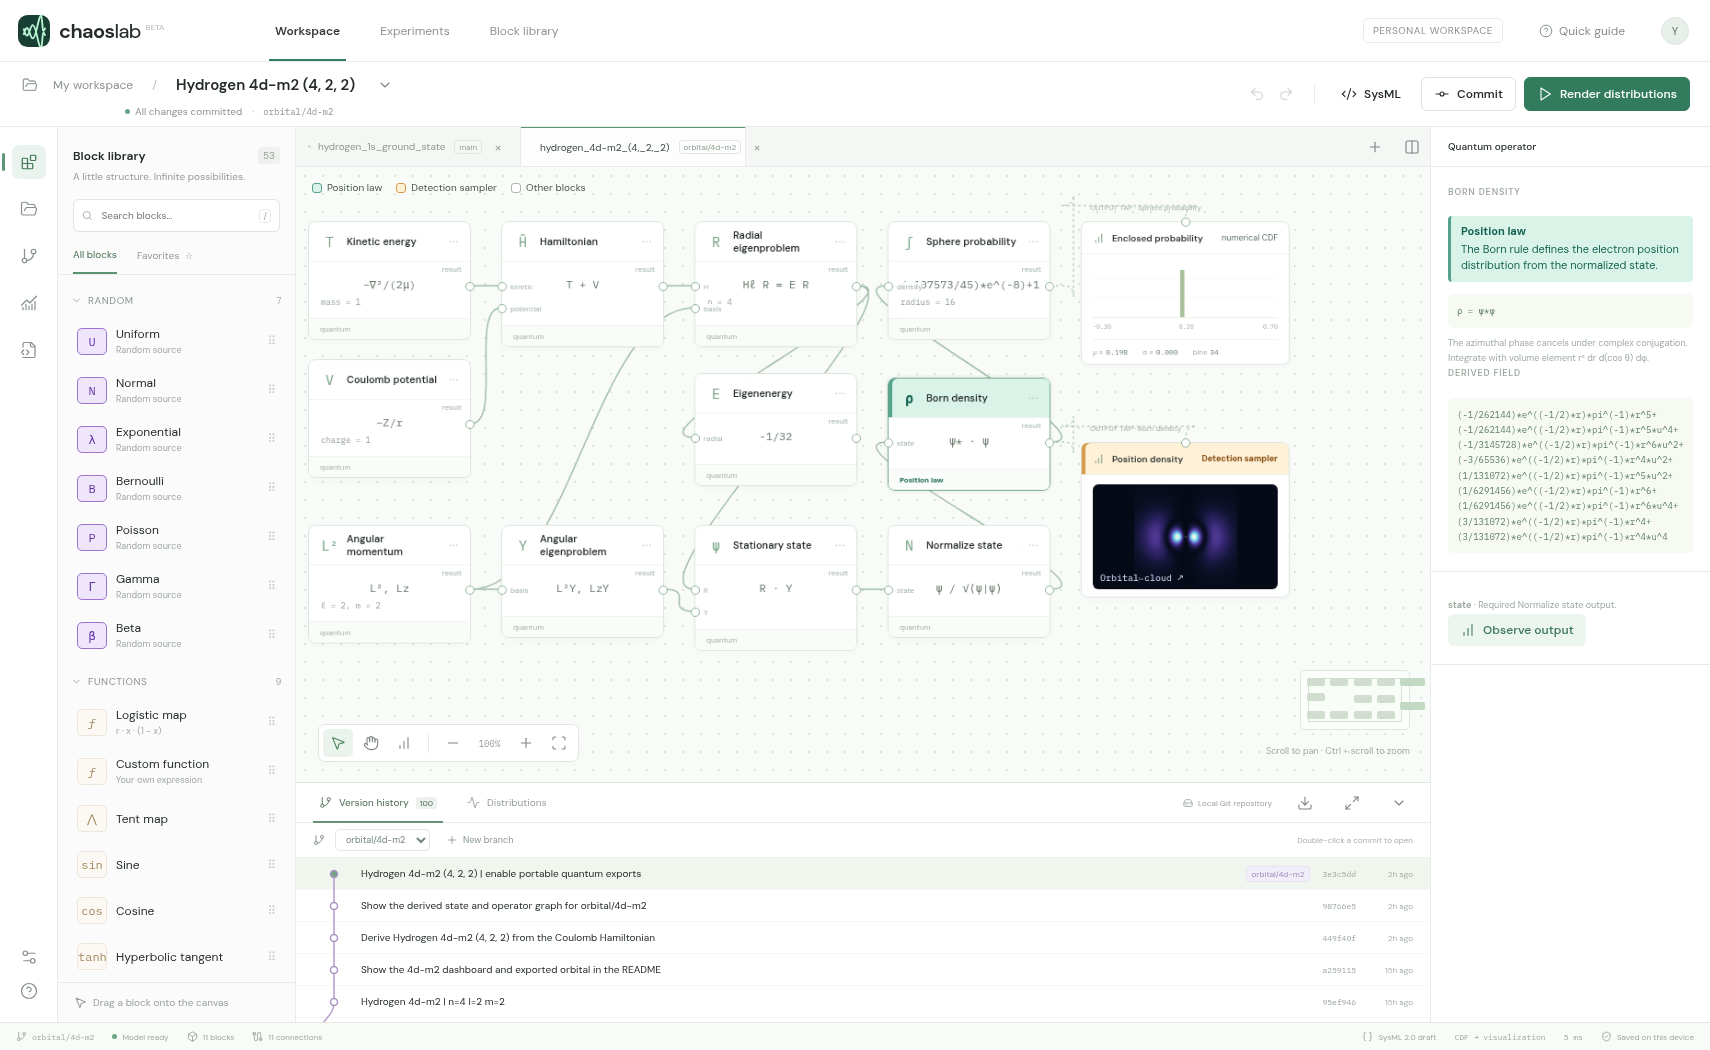
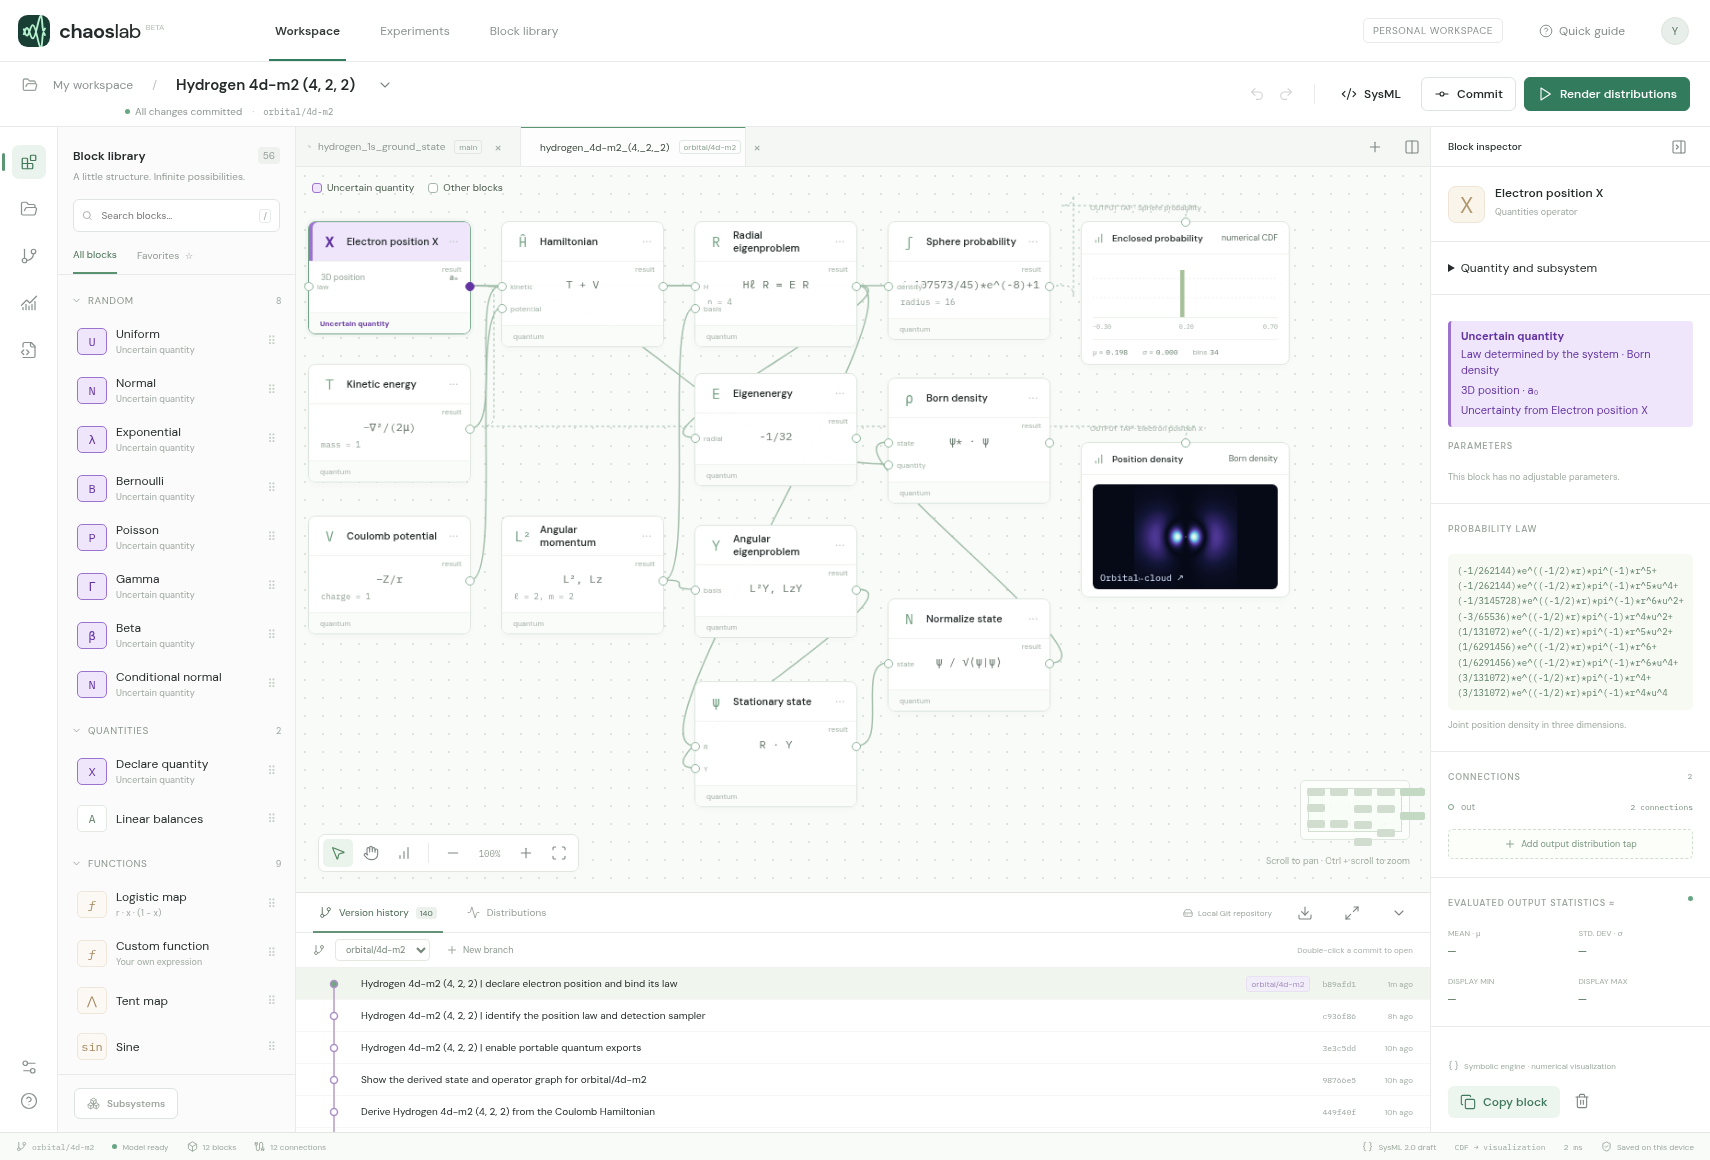
Show the position declaration and its law provider for orbital/4d-m2

diff --git a/studio.py b/studio.py
@@ -10,7 +10,7 @@ import tempfile
 import webbrowser
 
 ROOT = Path(__file__).resolve().parent
-STUDIO_REV = "5cbb600c6ee5baa24d159ddc6c974d68eb68f653"
+STUDIO_REV = "515ba96842af71b90f41019a508548a96e802665"
 STUDIO_REPO = "https://github.com/wa200508/chaos_lab.git"
 
 

diff --git a/README.md b/README.md
@@ -6,7 +6,7 @@ Open **Version history** in Chaos Lab to explore the 20 hydrogen designs in this
 
 The connected Hamiltonian and eigenstate solvers give $E=-1/32$ Hartree for this state.
 
-The purple **Electron position X** block declares the three-dimensional quantity in Bohr radii. Open its inspector to see **Born density** as its law provider. The sphere measurement and spatial tap both observe X. Projected detections draw from the final law; the central slice evaluates the density directly.
+The purple **Electron position X** block declares the three-dimensional quantity in Bohr radii. Open its inspector to see **Born density** as its law provider. The sphere measurement and spatial tap both observe X. Projected detections draw from the final law. The central slice evaluates the density directly.
 
 ![Chaos Lab dashboard with the 4d model, m = 2, open in version history](dashboard.png)
 
